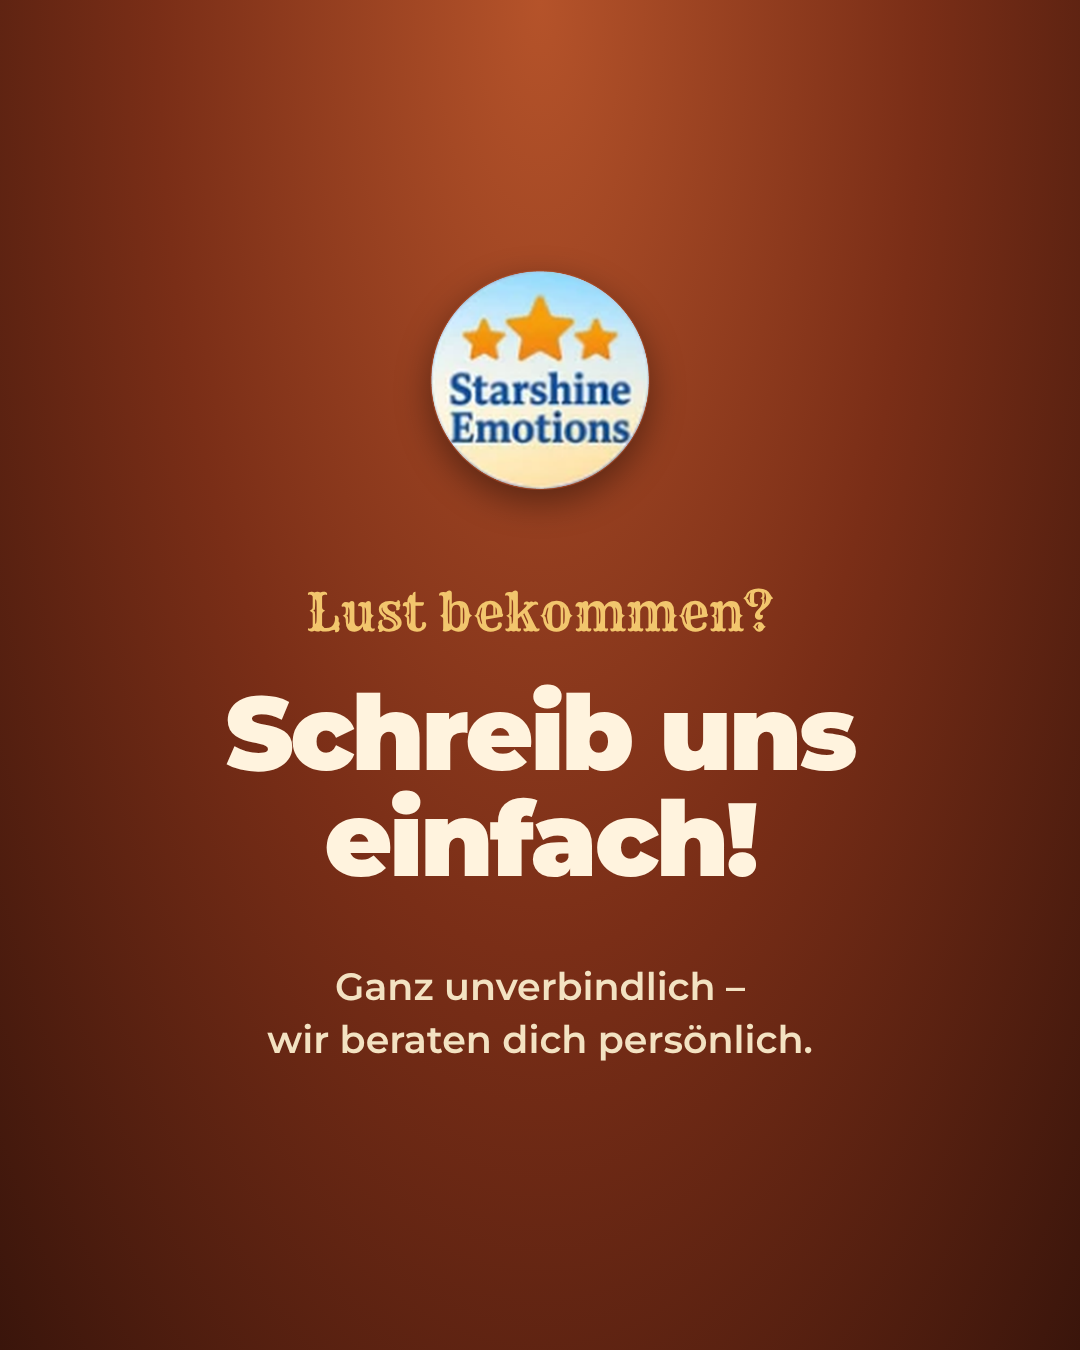
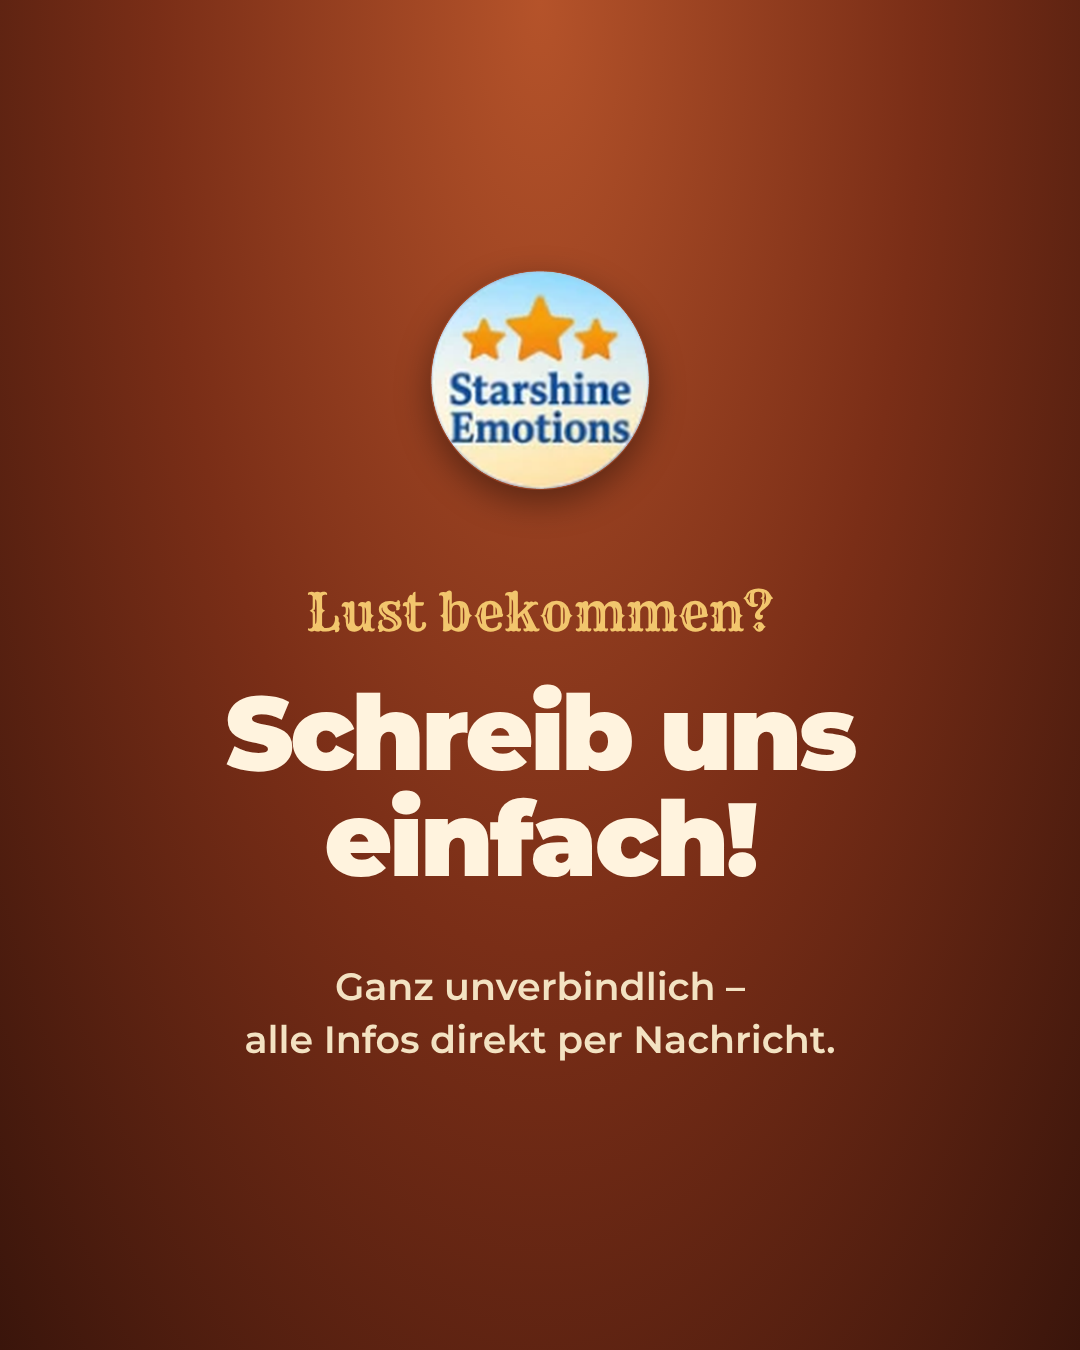
Closing slide: rephrase subline without personal-advice claim
Claude-Session: https://claude.ai/code/session_01MYsT5PUrxmX4pbkuNXz2ag

Changed region(s): [[0.2139, 0.7467, 0.7639, 0.7778]]

diff --git a/creatives/organic/00-abschluss-slide.html b/creatives/organic/00-abschluss-slide.html
@@ -8,5 +8,5 @@
 <img class="lg" src="logo-starshine.png">
 <div class="k">Lust bekommen?</div>
 <div class="h">Schreib uns<br>einfach!</div>
-<div class="sub">Ganz unverbindlich –<br>wir beraten dich persönlich.</div>
+<div class="sub">Ganz unverbindlich –<br>alle Infos direkt per Nachricht.</div>
 </div></body></html>
